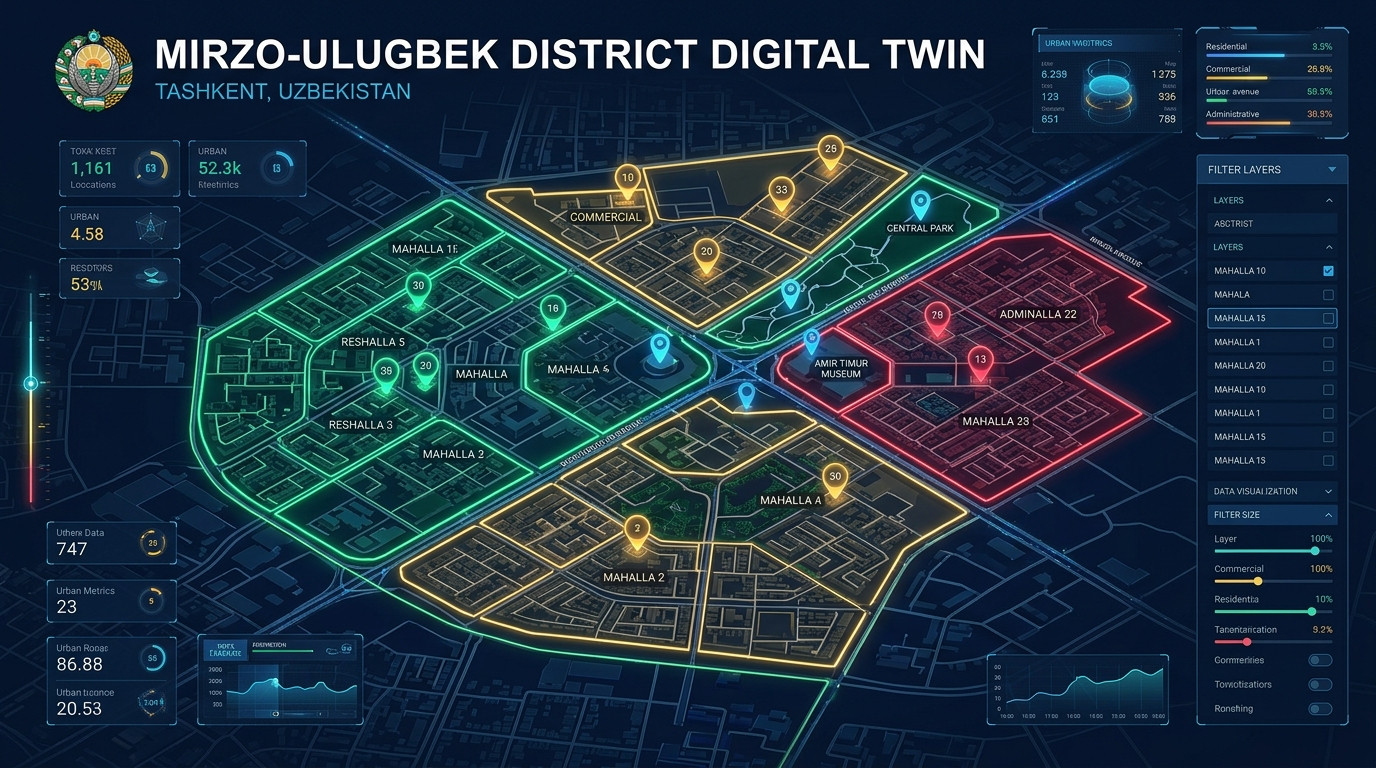
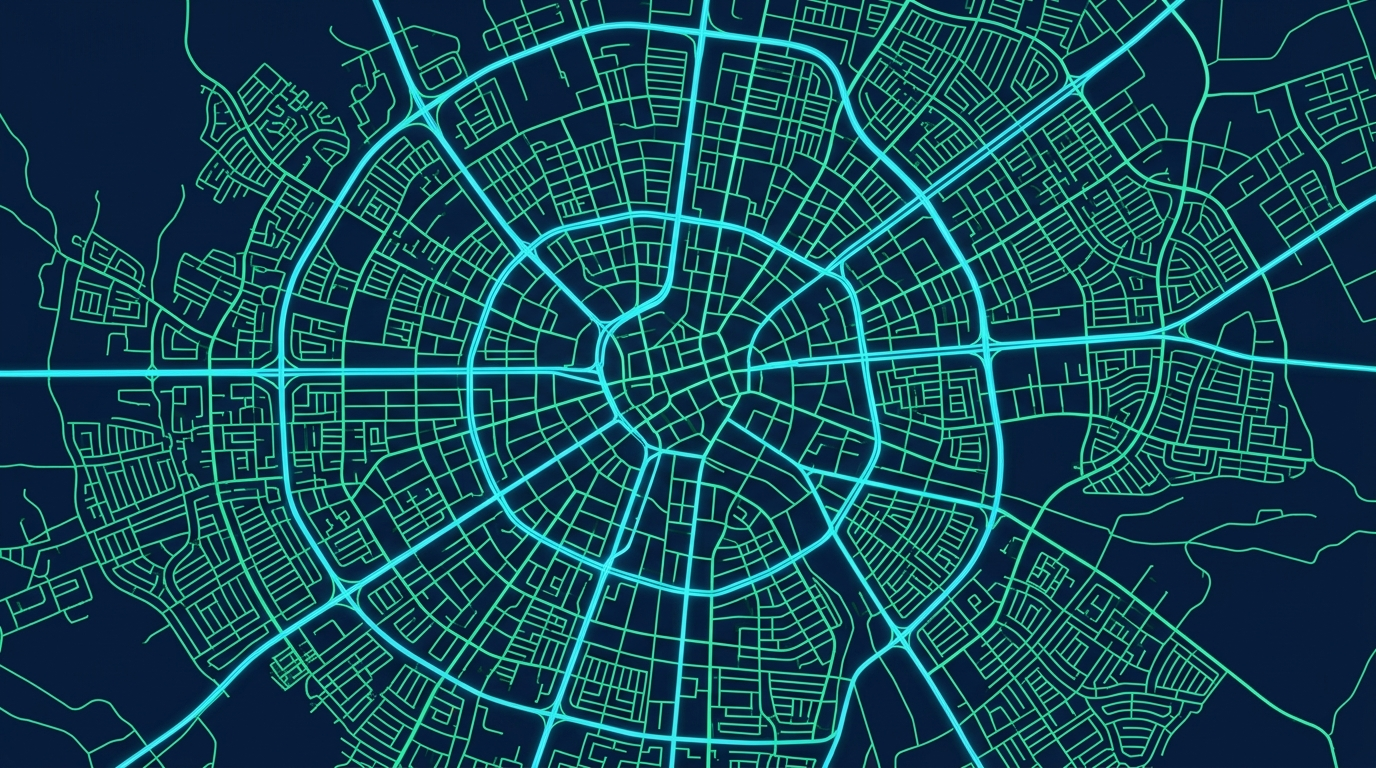
Очистка карты от визуального шума и лишних надписей: - Удалены все фейковые текстовые блоки, боковые меню и виджеты из фона карты - Установлена абсолютно чистая векторная подложка улиц района в тёмной теме - Оптимизировано расположение интерактивных пинов махаллей с чёткой индикацией

diff --git a/src/components/DistrictMapView.tsx b/src/components/DistrictMapView.tsx
@@ -10,16 +10,16 @@ interface DistrictMapViewProps {
   onNavigateRegistry: () => void;
 }
 
-// Hotspot coordinates on the visual map (in percentages x%, y%)
-const MAP_HOTSPOTS: { [key: string]: { x: number; y: number; label: string; badge: string; color: string } } = {
-  'm_darxon': { x: 26, y: 55, label: 'Дархон', badge: '95.7% банд', color: '#10B981' },
-  'm_buyuk_ipak': { x: 42, y: 44, label: 'Буюк Ипак Йўли', badge: '91.3% банд', color: '#10B981' },
-  'm_oliy_himmat': { x: 74, y: 50, label: 'Олий Ҳиммат', badge: '⚠ 34 NEET', color: '#F43F5E' },
-  'm_shahriobod': { x: 55, y: 72, label: 'Шаҳриобод', badge: '90.3% банд', color: '#10B981' },
-  'm_avaykhon': { x: 44, y: 70, label: 'Авайхон', badge: '84.3% банд', color: '#F59E0B' },
-  'm_feruza': { x: 54, y: 28, label: 'Феруза', badge: '28 NEET', color: '#F59E0B' },
-  'm_qorasuv': { x: 71, y: 40, label: 'Қорасув', badge: '39 NEET', color: '#F43F5E' },
-  'm_humo': { x: 67, y: 30, label: 'Ҳумо', badge: '91.5% банд', color: '#10B981' },
+// Clean hotspot coordinates on the clean radial district map (in percentages x%, y%)
+const MAP_HOTSPOTS: { [key: string]: { x: number; y: number; label: string; color: string } } = {
+  'm_darxon': { x: 24, y: 50, label: 'Дархон', color: '#10B981' },
+  'm_buyuk_ipak': { x: 48, y: 38, label: 'Буюк Ипак Йўли', color: '#10B981' },
+  'm_oliy_himmat': { x: 74, y: 52, label: 'Олий Ҳиммат', color: '#F43F5E' },
+  'm_shahriobod': { x: 50, y: 68, label: 'Шаҳриобод', color: '#10B981' },
+  'm_avaykhon': { x: 30, y: 72, label: 'Авайхон', color: '#F59E0B' },
+  'm_feruza': { x: 50, y: 18, label: 'Феруза', color: '#F59E0B' },
+  'm_qorasuv': { x: 74, y: 28, label: 'Қорасув', color: '#F43F5E' },
+  'm_humo': { x: 82, y: 70, label: 'Ҳумо', color: '#10B981' },
 };
 
 export const DistrictMapView: React.FC<DistrictMapViewProps> = ({
@@ -61,8 +61,8 @@ export const DistrictMapView: React.FC<DistrictMapViewProps> = ({
           </div>
           <p className="text-sm text-slate-300 max-w-2xl leading-relaxed">
             {lang === 'ru'
-              ? 'Наглядная карта секторов района с цветовой индикацией зон риска NEET. Кликните по любому маркеру для открытия паспорта махалли.'
-              : 'Хавф даражаси ранглар билан ажратилган туман маҳаллалари харитаси.'}
+              ? 'Чистый картографический план 8 секторов района без постороннего шума. Кликните по маркеру махалли для просмотра подробного паспорта.'
+              : 'Маҳаллалар кесимида бандлик кўрсаткичларининг интерактив харитаси.'}
           </p>
         </div>
 
@@ -71,7 +71,7 @@ export const DistrictMapView: React.FC<DistrictMapViewProps> = ({
           {/* Custom image upload button */}
           <label className="flex items-center gap-1.5 px-3.5 py-2 rounded-xl bg-slate-800 hover:bg-slate-750 text-slate-200 border border-slate-700 text-xs font-semibold cursor-pointer transition-all">
             <Upload className="w-3.5 h-3.5 text-cyan-400" />
-            <span>{lang === 'ru' ? 'Загрузить свой скриншот карты' : 'Харита расмини юклаш'}</span>
+            <span>{lang === 'ru' ? 'Загрузить своё фото карты' : 'Расм юклаш'}</span>
             <input type="file" accept="image/*" onChange={handleImageUpload} className="hidden" />
           </label>
 
@@ -101,8 +101,8 @@ export const DistrictMapView: React.FC<DistrictMapViewProps> = ({
       {/* Main Map + Sidebar Split */}
       <div className="grid grid-cols-1 lg:grid-cols-12 gap-6">
         
-        {/* Left: Graphic Digital Twin Map with Interactive Hotspots */}
-        <div className="lg:col-span-7 glass-panel rounded-3xl p-4 border border-slate-700/60 bg-[#0c1626] relative overflow-hidden flex flex-col justify-between shadow-xl">
+        {/* Left: Clean Map with Interactive Hotspots */}
+        <div className="lg:col-span-7 glass-panel rounded-3xl p-4 border border-slate-700/60 bg-[#07111f] relative overflow-hidden flex flex-col justify-between shadow-xl">
           
           <div className="flex items-center justify-between z-10 flex-wrap gap-2 mb-3">
             <span className="text-xs font-semibold text-cyan-300 bg-slate-900/90 px-3 py-1.5 rounded-xl border border-slate-700">
@@ -115,22 +115,19 @@ export const DistrictMapView: React.FC<DistrictMapViewProps> = ({
             </div>
           </div>
 
-          {/* Interactive Visual Map with Glowing Hotspots */}
-          <div className="relative w-full rounded-2xl overflow-hidden border border-slate-700/80 shadow-2xl aspect-[16/10] bg-slate-950 flex items-center justify-center">
+          {/* Clean Map Frame */}
+          <div className="relative w-full rounded-2xl overflow-hidden border border-slate-700/80 shadow-2xl aspect-[16/10] bg-[#050b14] flex items-center justify-center">
             
-            {/* Base Visual Map Image */}
+            {/* Clean Map Texture */}
             <img
               src={customMapUrl}
-              alt="Mirzo-Ulugbek District Map"
+              alt="Mirzo-Ulugbek Clean District Map"
               className="w-full h-full object-cover object-center select-none"
             />
 
-            {/* Subtle cybernetic grid overlay */}
-            <div className="absolute inset-0 bg-gradient-to-t from-[#0b132b]/60 via-transparent to-transparent pointer-events-none" />
-
             {/* Interactive Pins on the Map */}
             {MAKHALLAS_LIST.map((m) => {
-              const hotspot = MAP_HOTSPOTS[m.id] || { x: 50, y: 50, label: m.name, badge: '90%', color: '#10B981' };
+              const hotspot = MAP_HOTSPOTS[m.id] || { x: 50, y: 50, label: m.name, color: '#10B981' };
               const isSelected = m.id === selectedMahallaId;
               const isHighRisk = m.riskLevel === 'high';
 
@@ -153,10 +150,10 @@ export const DistrictMapView: React.FC<DistrictMapViewProps> = ({
                   <div
                     className={`px-3 py-1.5 rounded-2xl text-xs font-bold whitespace-nowrap flex items-center gap-1.5 shadow-2xl transition-all ${
                       isSelected
-                        ? 'bg-cyan-500 text-white border-2 border-white scale-110 shadow-cyan-500/50'
+                        ? 'bg-cyan-500 text-white border-2 border-white scale-110 shadow-cyan-500/50 ring-4 ring-cyan-500/30'
                         : isHighRisk
-                        ? 'bg-rose-950/90 text-rose-200 border border-rose-500/80 hover:bg-rose-900'
-                        : 'bg-slate-900/90 text-white border border-slate-600 hover:border-cyan-400'
+                        ? 'bg-rose-950 text-rose-100 border border-rose-500 hover:bg-rose-900 shadow-rose-900/40'
+                        : 'bg-slate-900/95 text-white border border-slate-600 hover:border-cyan-400'
                     }`}
                   >
                     <div 
@@ -166,7 +163,7 @@ export const DistrictMapView: React.FC<DistrictMapViewProps> = ({
                     <span>{m.name}</span>
                     <span 
                       className="px-1.5 py-0.5 rounded-lg text-[10px] font-mono ml-0.5"
-                      style={{ backgroundColor: 'rgba(0,0,0,0.4)', color: isHighRisk ? '#fca5a5' : '#7dd3fc' }}
+                      style={{ backgroundColor: 'rgba(0,0,0,0.5)', color: isHighRisk ? '#fca5a5' : '#7dd3fc' }}
                     >
                       {mapMetric === 'neet' ? `${m.neetPending} NEET` : `${m.employmentRate}%`}
                     </span>
@@ -192,7 +189,7 @@ export const DistrictMapView: React.FC<DistrictMapViewProps> = ({
                 <h3 className="text-2xl font-extrabold text-white mt-1">Маҳалла «{currentMahalla.name}»</h3>
                 <div className="flex items-center gap-2 mt-1.5">
                   <span className={`px-3 py-0.5 rounded-full text-xs font-bold ${
-                    currentMahalla.riskLevel === 'high' ? 'bg-rose-500/20 text-rose-300' : 'bg-emerald-500/20 text-emerald-300'
+                    currentMahalla.riskLevel === 'high' ? 'bg-rose-500/20 text-rose-300 border border-rose-500/30' : 'bg-emerald-500/20 text-emerald-300 border border-emerald-500/30'
                   }`}>
                     {currentMahalla.riskLevel === 'high' ? '⚠ Высокий риск NEET' : '✓ Стабильная зона'}
                   </span>
